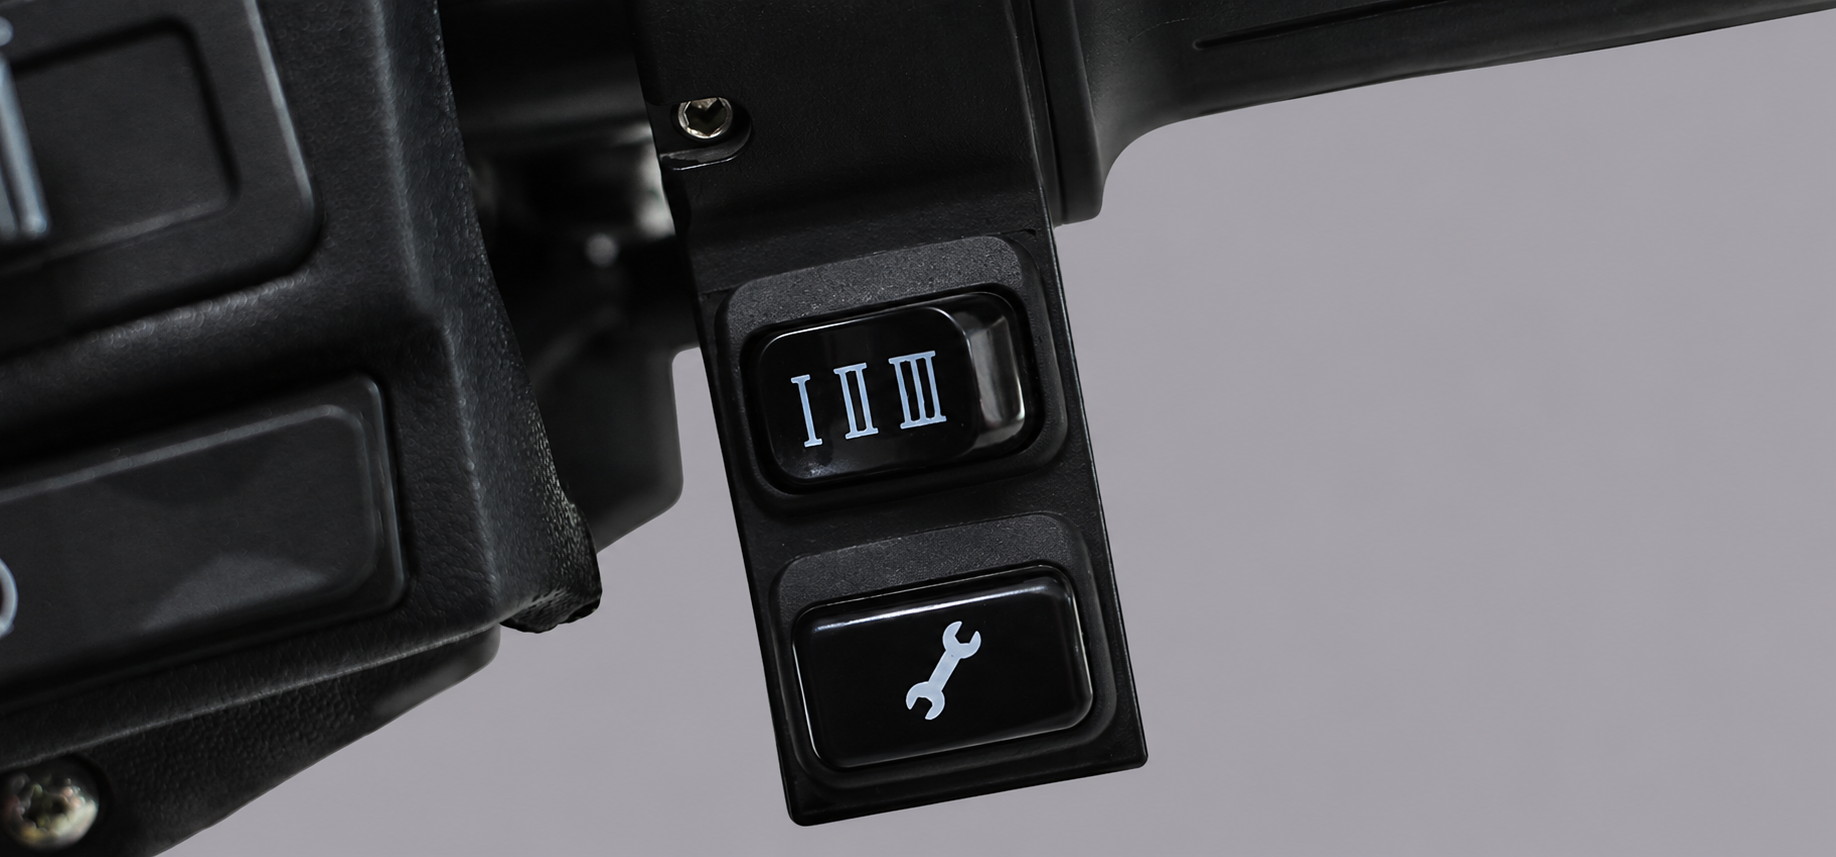
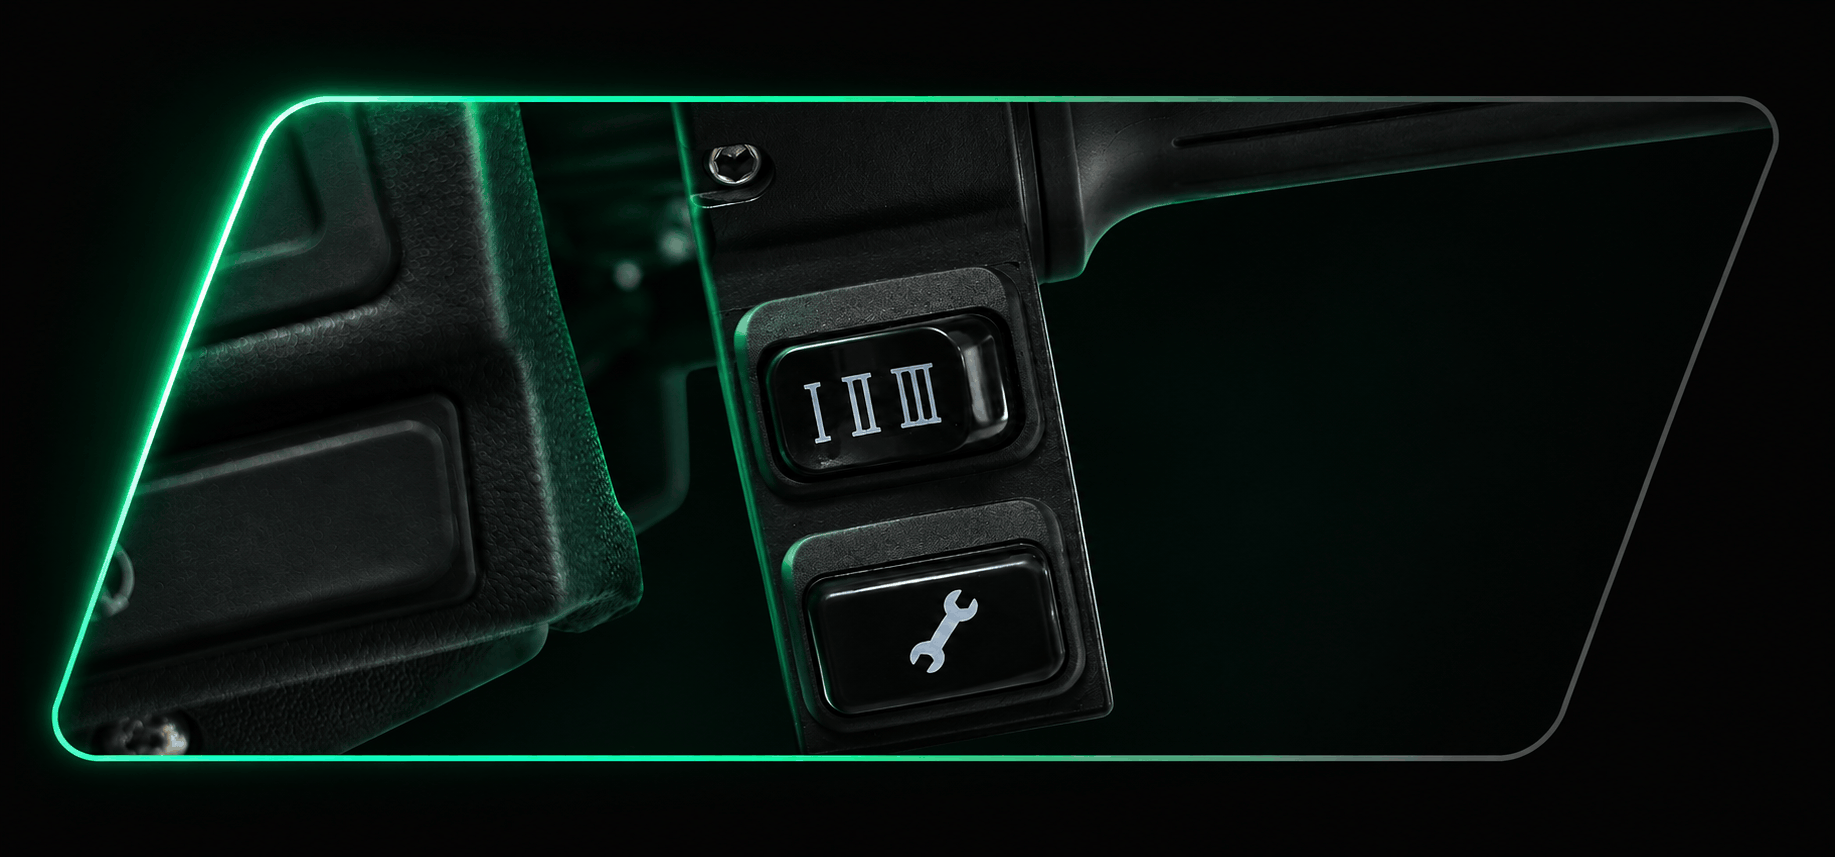
advance feature images

diff --git a/src/data/products/ev-125.ts b/src/data/products/ev-125.ts
@@ -52,7 +52,7 @@ export const ev125: Product = {
   advancedFeatures: [
     {
       title: "3 Different Speed Modes",
-      image: `/assets/images/products/ev-125/handlerbarnew.png`,
+      image: `/assets/images/products/ev-125/bikespeedcontrols.png`,
       bullets: [
         {
           label: "Eco",
@@ -70,13 +70,13 @@ export const ev125: Product = {
     },
     {
       title: "lithium iron phosphate (LiFePO4) battery",
-      image: `${IMG}/batterynew.png`,
+      image: `${IMG}/batterybike.png`,
       description:
         "With 3,000 battery cycles, 2-3 hours fast charging, and 100+ Km of real-world range per charge, enjoy longer rides with less time spent charging, making it easy for anyone to sustain economic pressure, as ELFA EV-125 covers 1 Km for just 1 rupee.",
     },
     {
       title: "Tubeless Tyres",
-      image: `${IMG}/chromenew.png`,
+      image: `${IMG}/bikechromewheel.png`,
       description:
         "Optimized for stability and smooth handling, our bikes feature an 18-inch front wheel and 17-inch rear wheel diameter, ensuring a comfortable ride on challenging roads.",
     },

diff --git a/src/components/product/ProductAdvancedFeatures.tsx b/src/components/product/ProductAdvancedFeatures.tsx
@@ -170,7 +170,7 @@ export default function ProductAdvancedFeatures({ features }: { features: Produc
 
         <div ref={contentRef} className="grid grid-cols-1 items-center gap-8 lg:grid-cols-2 lg:gap-16">
           <div
-            className="relative grid aspect-[21/10] w-full overflow-hidden rounded-2xl border border-white/10 bg-[#111]"
+            className="relative grid aspect-[15/7] w-full overflow-hidden rounded-2xl"
             onPointerEnter={pauseOnMouse}
             onPointerLeave={resumeOnMouse}
           >
@@ -202,7 +202,7 @@ export default function ProductAdvancedFeatures({ features }: { features: Produc
                     alt={feature.title}
                     fill
                     loading="eager"
-                    className="object-cover"
+                    className="object-contain"
                     sizes="(min-width: 1024px) 650px, (min-width: 640px) 90vw, 100vw"
                   />
                 </motion.div>

diff --git a/src/data/products/scooty-ev-1.ts b/src/data/products/scooty-ev-1.ts
@@ -70,7 +70,7 @@ export const scootyEv1: Product = {
     },
     {
       title: "Tubeless Tyres",
-      image: `${IMG}/scootytire.png`,
+      image: `${IMG}/scootywheel.png`,
       description:
         "Optimized for stability and smooth handling, our bikes feature an 12-inch front wheel and 12-inch rear wheel diameter, ensuring a comfortable ride on challenging roads.",
     },
